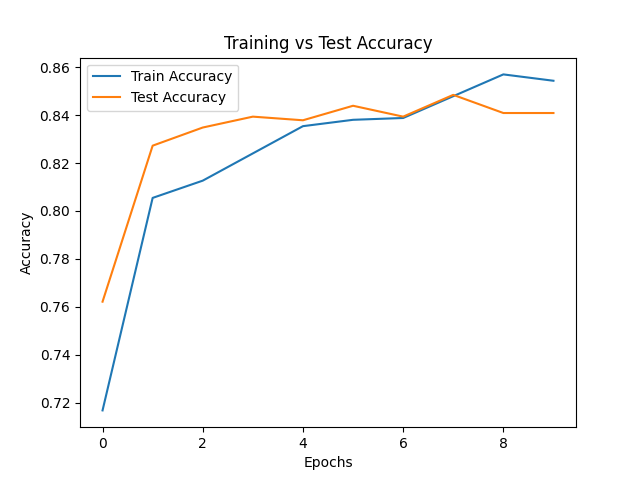
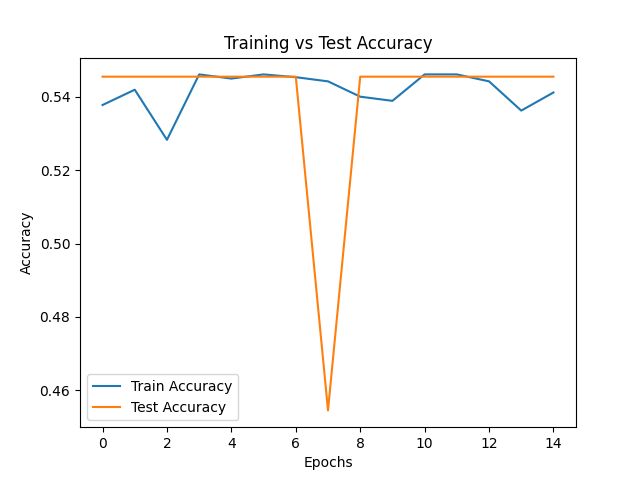
Modify: Increase epoch size, Use different pretrained model, Allow training on pretrained:

diff --git a/main.py b/main.py
@@ -1,7 +1,7 @@
 import os
 import tensorflow as tf
 from tensorflow.keras.preprocessing.image import ImageDataGenerator
-from tensorflow.keras.applications import MobileNetV2
+from tensorflow.keras.applications import EfficientNetB0
 from tensorflow.keras.models import Sequential
 from tensorflow.keras.layers import Dense, GlobalAveragePooling2D
 from tensorflow.keras.optimizers import Adam
@@ -15,7 +15,7 @@ test_dir = os.path.join(base_dir, "test")
 # Parameters
 IMG_SIZE = (224, 224)
 BATCH_SIZE = 32
-EPOCHS = 10
+EPOCHS = 15
 
 # Data augmentation for training
 train_datagen = ImageDataGenerator(
@@ -44,8 +44,8 @@ test_data = test_datagen.flow_from_directory(
 )
 
 # Build model (transfer learning)
-base_model = MobileNetV2(weights='imagenet', include_top=False, input_shape=(224, 224, 3))
-base_model.trainable = False  # freeze base model
+base_model = EfficientNetB0(weights='imagenet', include_top=False, input_shape=(224, 224, 3))
+base_model.trainable = True  # freeze base model
 
 model = Sequential([
     base_model,
@@ -77,4 +77,5 @@ plt.show()
 
 # Save model
 model.save('skin_cancer_model.h5')
-print("✅ Model trained and saved as 'skin_cancer_model.h5'")
+loss, accuracy = model.evaluate(test_data)
+print(f'Test accuracy: {accuracy: .2f}')
